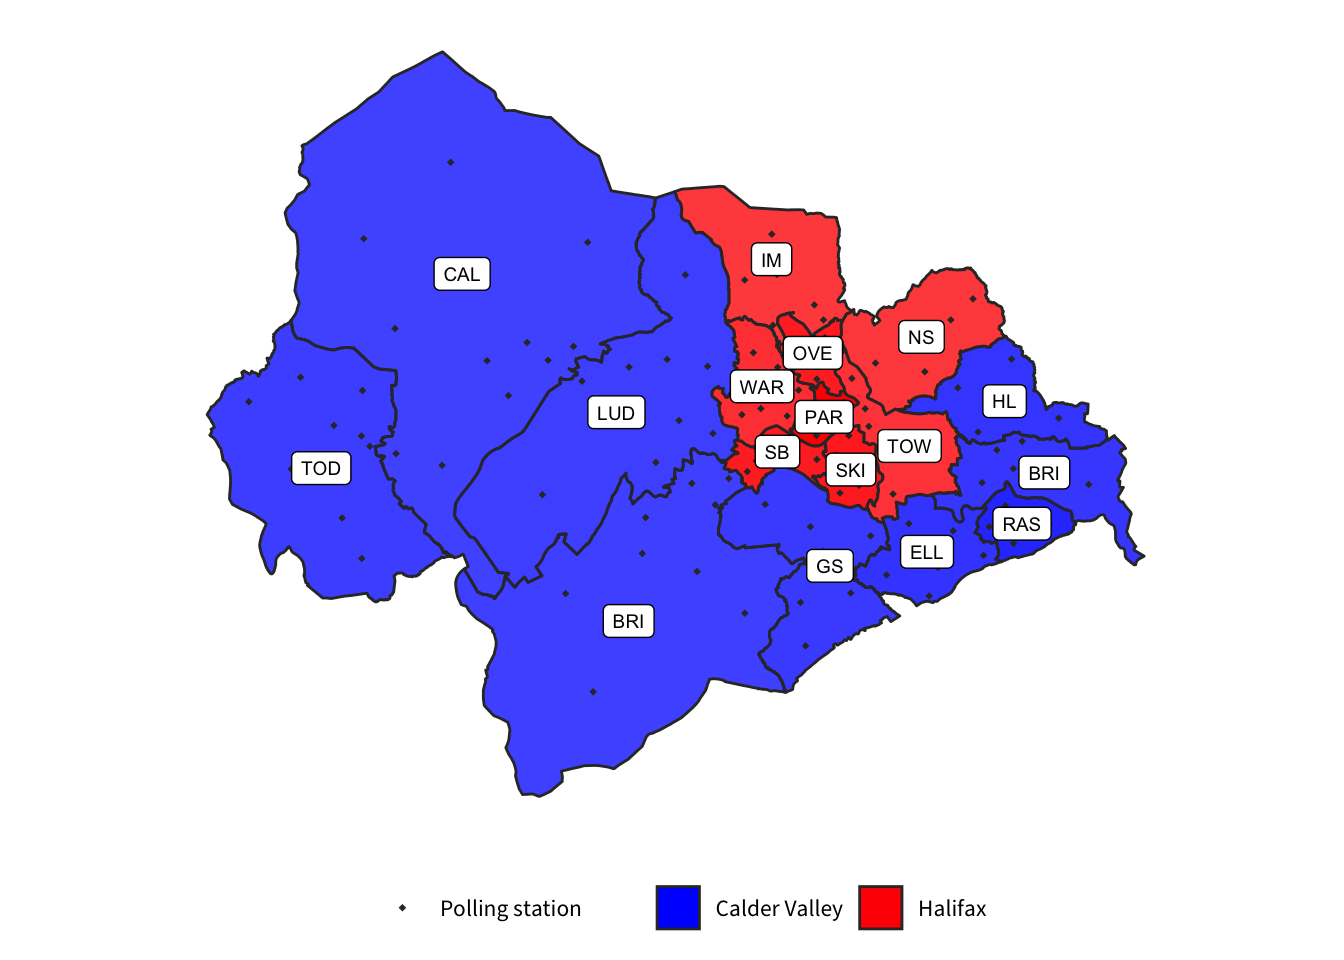
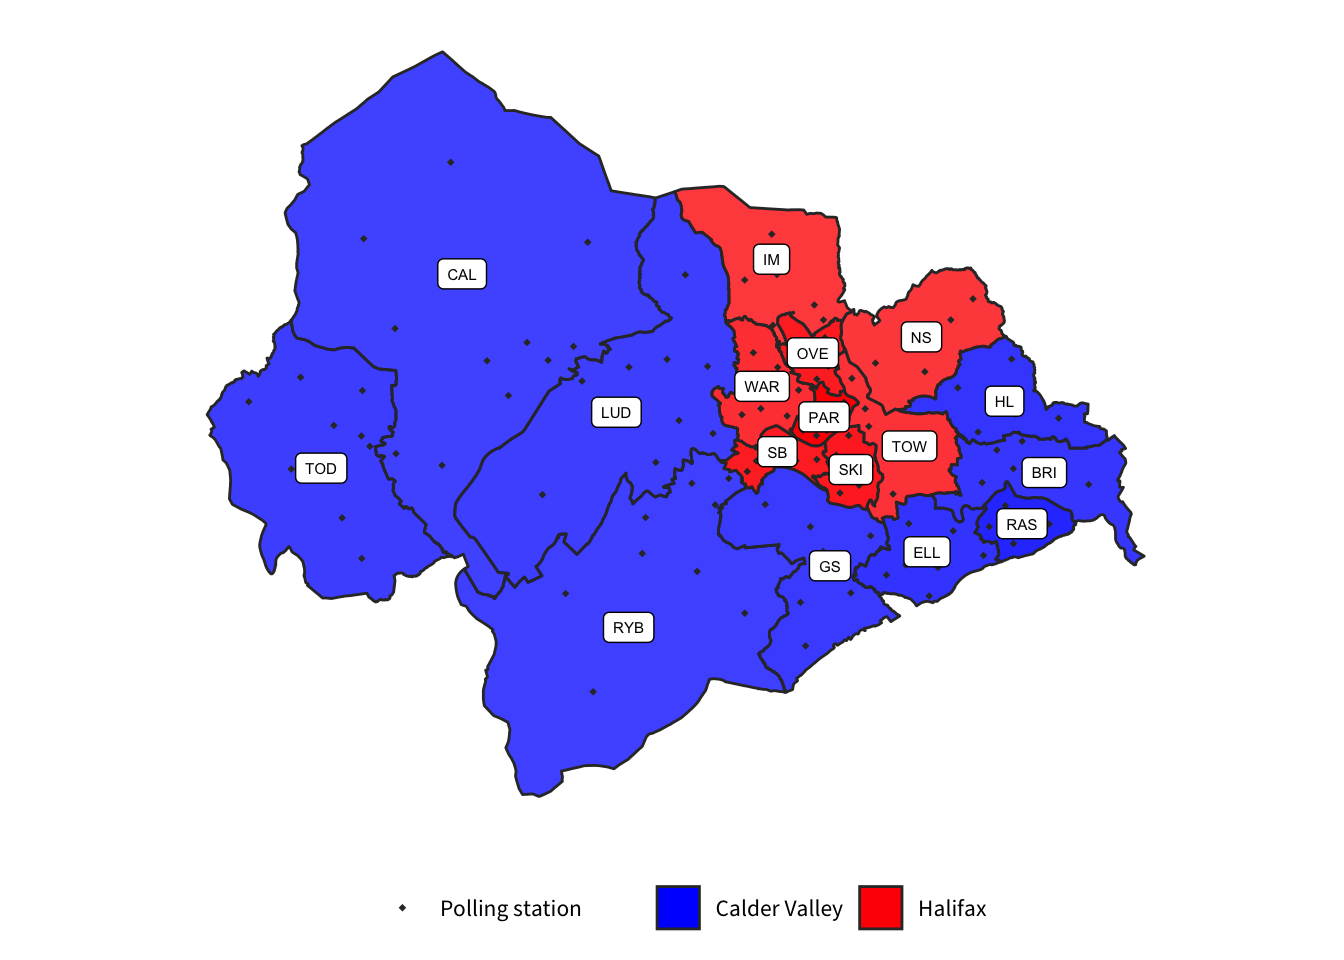
BC proposals added, new draft of Pages site

diff --git a/docs/boundary-commission-proposal.html b/docs/boundary-commission-proposal.html
@@ -11,7 +11,7 @@
 
 
 
-<title>Current Position</title>
+<title>Boundary Commission Proposal</title>
 
 <script src="site_libs/header-attrs-2.7/header-attrs.js"></script>
 <script src="site_libs/jquery-1.11.3/jquery.min.js"></script>
@@ -262,42 +262,48 @@ $(document).ready(function () {
 
 
 
-<h1 class="title toc-ignore">Current Position</h1>
+<h1 class="title toc-ignore">Boundary Commission Proposal</h1>
 
 </div>
 
 
 <blockquote>
-<p>Within the Borough of Calderdale, the existing Halifax constituency has an electorate within the permitted range, whereas the existing Calder Valley constituency is above the permitted range.</p>
+<p>We therefore propose that the Hipperholme and Lightcliffe ward be transferred from the Calder Valley constituency to a proposed Batley and Hipperholme constituency, based largely on the existing Batley and Spen constituency. In order to bring the two Calderdale constituencies within the permitted electorate range, the two wards of Sowerby Bridge and Warley, and the two wards of Brighouse and Rastrick are exchanged between the proposed Halifax and Calder Valley constituencies.</p>
 </blockquote>
 <p>— <a href="https://boundarycommissionforengland.independent.gov.uk/wp-content/uploads/2021/06/2021-06-08-Initial-Proposals-Yorkshire-and-the-Humber-Region.pdf">Boundary Commission Initial proposals</a></p>
-<div id="constituency-boundaries" class="section level2">
-<h2>Constituency Boundaries</h2>
-<p><img src="current-position_files/figure-html/unnamed-chunk-1-1.png" width="100%" /></p>
+<p><img src="boundary-commission-proposal_files/figure-html/unnamed-chunk-1-1.png" width="100%" /></p>
 <table>
 <thead>
 <tr class="header">
-<th align="left">2019 Constituency</th>
+<th align="left">2023 Constituency</th>
 <th align="right">Electorate</th>
 </tr>
 </thead>
 <tbody>
 <tr class="odd">
 <td align="left">Calder Valley</td>
-<td align="right">78,824</td>
+<td align="right">70,638</td>
 </tr>
 <tr class="even">
 <td align="left">Halifax</td>
-<td align="right">71,726</td>
+<td align="right">70,802</td>
 </tr>
 </tbody>
 </table>
-</div>
-<div id="no-simple-solutions" class="section level2">
-<h2>(No) Simple Solutions</h2>
-<p>Evidently, there is no single ward that could be moved from Calder Valley to Halifax and still have both constituencies within the size restrictions. One or more wards would have to be exchanged, or the constituencies redrawn entirely. Wards that could be moved from Calder Valley to Halifax leaving both constituencies geographically unbroken are limited to <strong>Hipperholme and Lightcliffe</strong>, <strong>Brighouse</strong>, and <strong>Luddenden</strong>.</p>
-<p>It would also be necessary to maintain some geographical consistency. It would not make sense to move <strong>Town</strong> ward to Calder Valley while leaving the rest of Halifax intact, for example.</p>
-<p><strong>Next:</strong> <a href="./boundary-commission-proposal.html">Boundary Commission Proposal</a></p>
+<div id="thoughts" class="section level2">
+<h2>Thoughts</h2>
+<ul>
+<li>This achieves the commission’s objectives – both constituencies are of equal size and within the permitted range</li>
+<li>Five wards, made up of 43,586 electors, will move to a different constituency
+<ul>
+<li>This represents 29% of electors in the borough</li>
+</ul></li>
+<li>The integrity of Halifax constituency is largely maintained</li>
+<li><strong>Hipperholme and Lightcliffe</strong> is now orphaned from the rest of the borough
+<ul>
+<li>Their new constituency will be split across multiple Local Authorities</li>
+</ul></li>
+</ul>
 </div>
 
 

diff --git a/docs/index.html b/docs/index.html
@@ -248,6 +248,9 @@ $(document).ready(function () {
 <li>
   <a href="current-position.html">Current position</a>
 </li>
+<li>
+  <a href="boundary-commission-proposal.html">Boundary Commission proposal</a>
+</li>
       </ul>
       <ul class="nav navbar-nav navbar-right">
         
@@ -262,7 +265,7 @@ $(document).ready(function () {
 
 <h1 class="title toc-ignore">Introduction</h1>
 <h4 class="author">Tim O’Ryan</h4>
-<h4 class="date">16/06/2021</h4>
+<h4 class="date">17/06/2021</h4>
 
 </div>
 
@@ -288,7 +291,7 @@ $(document).ready(function () {
 <tr class="odd">
 <td align="left">Ryburn</td>
 <td align="right">9,068</td>
-<td align="left">BRI</td>
+<td align="left">RYB</td>
 </tr>
 <tr class="even">
 <td align="left">Todmorden</td>
